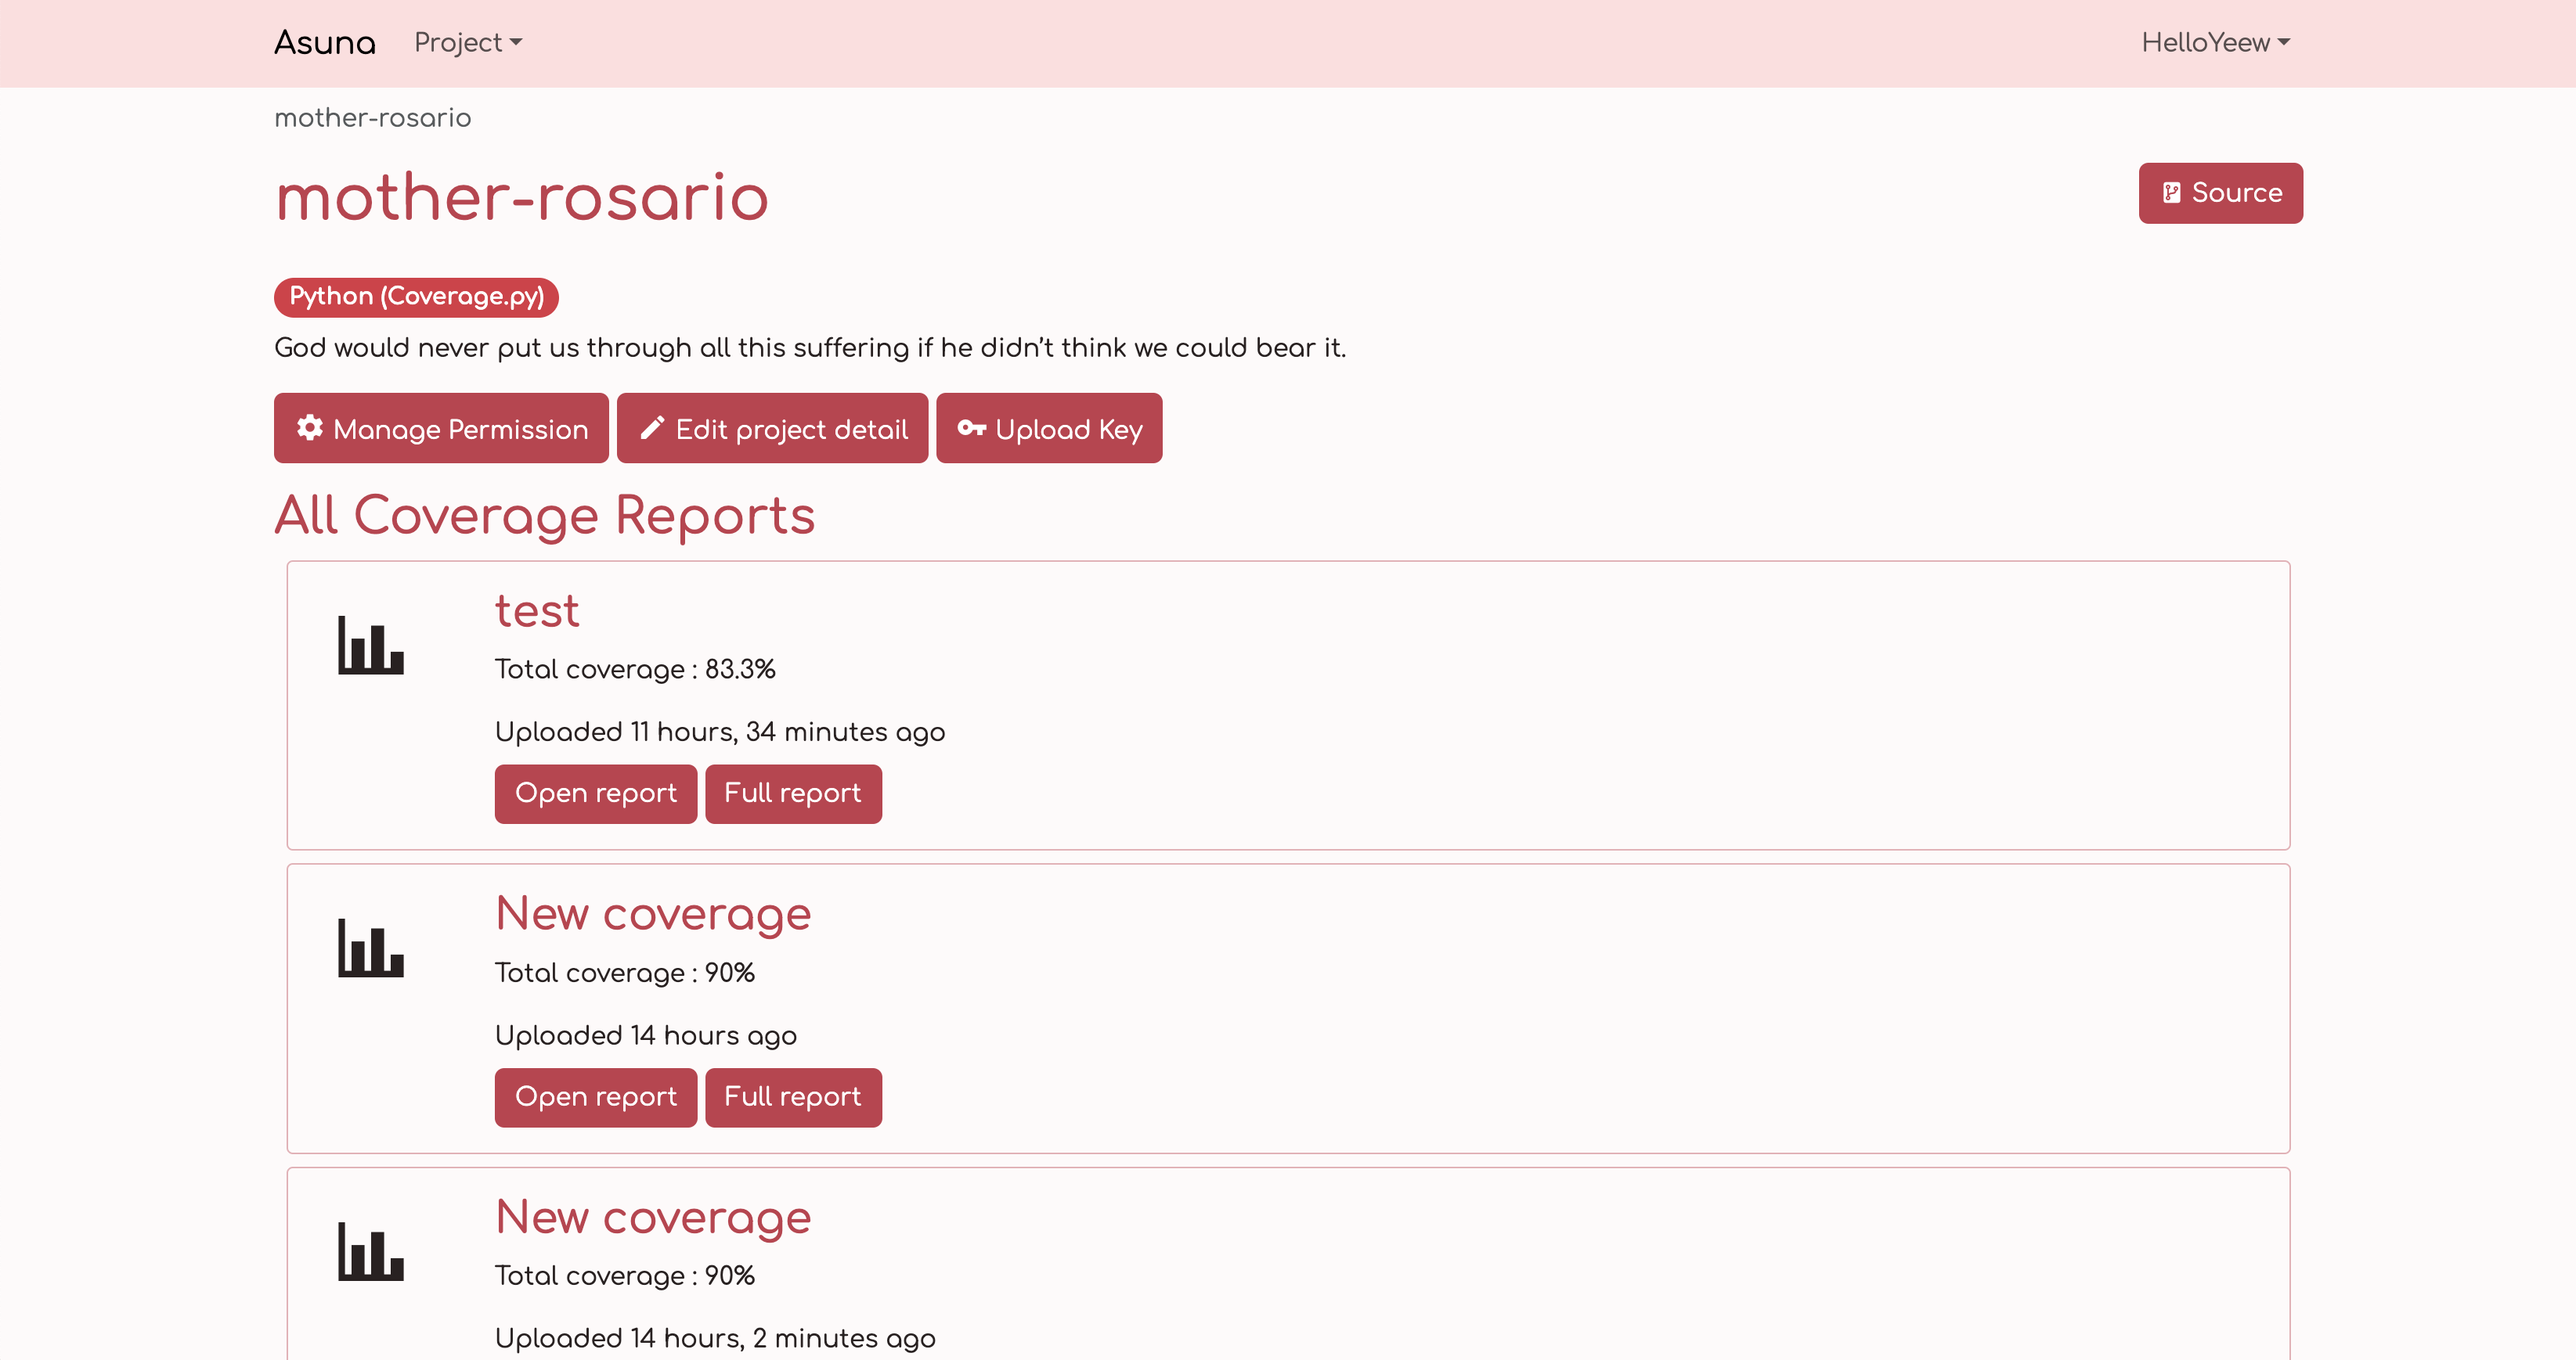
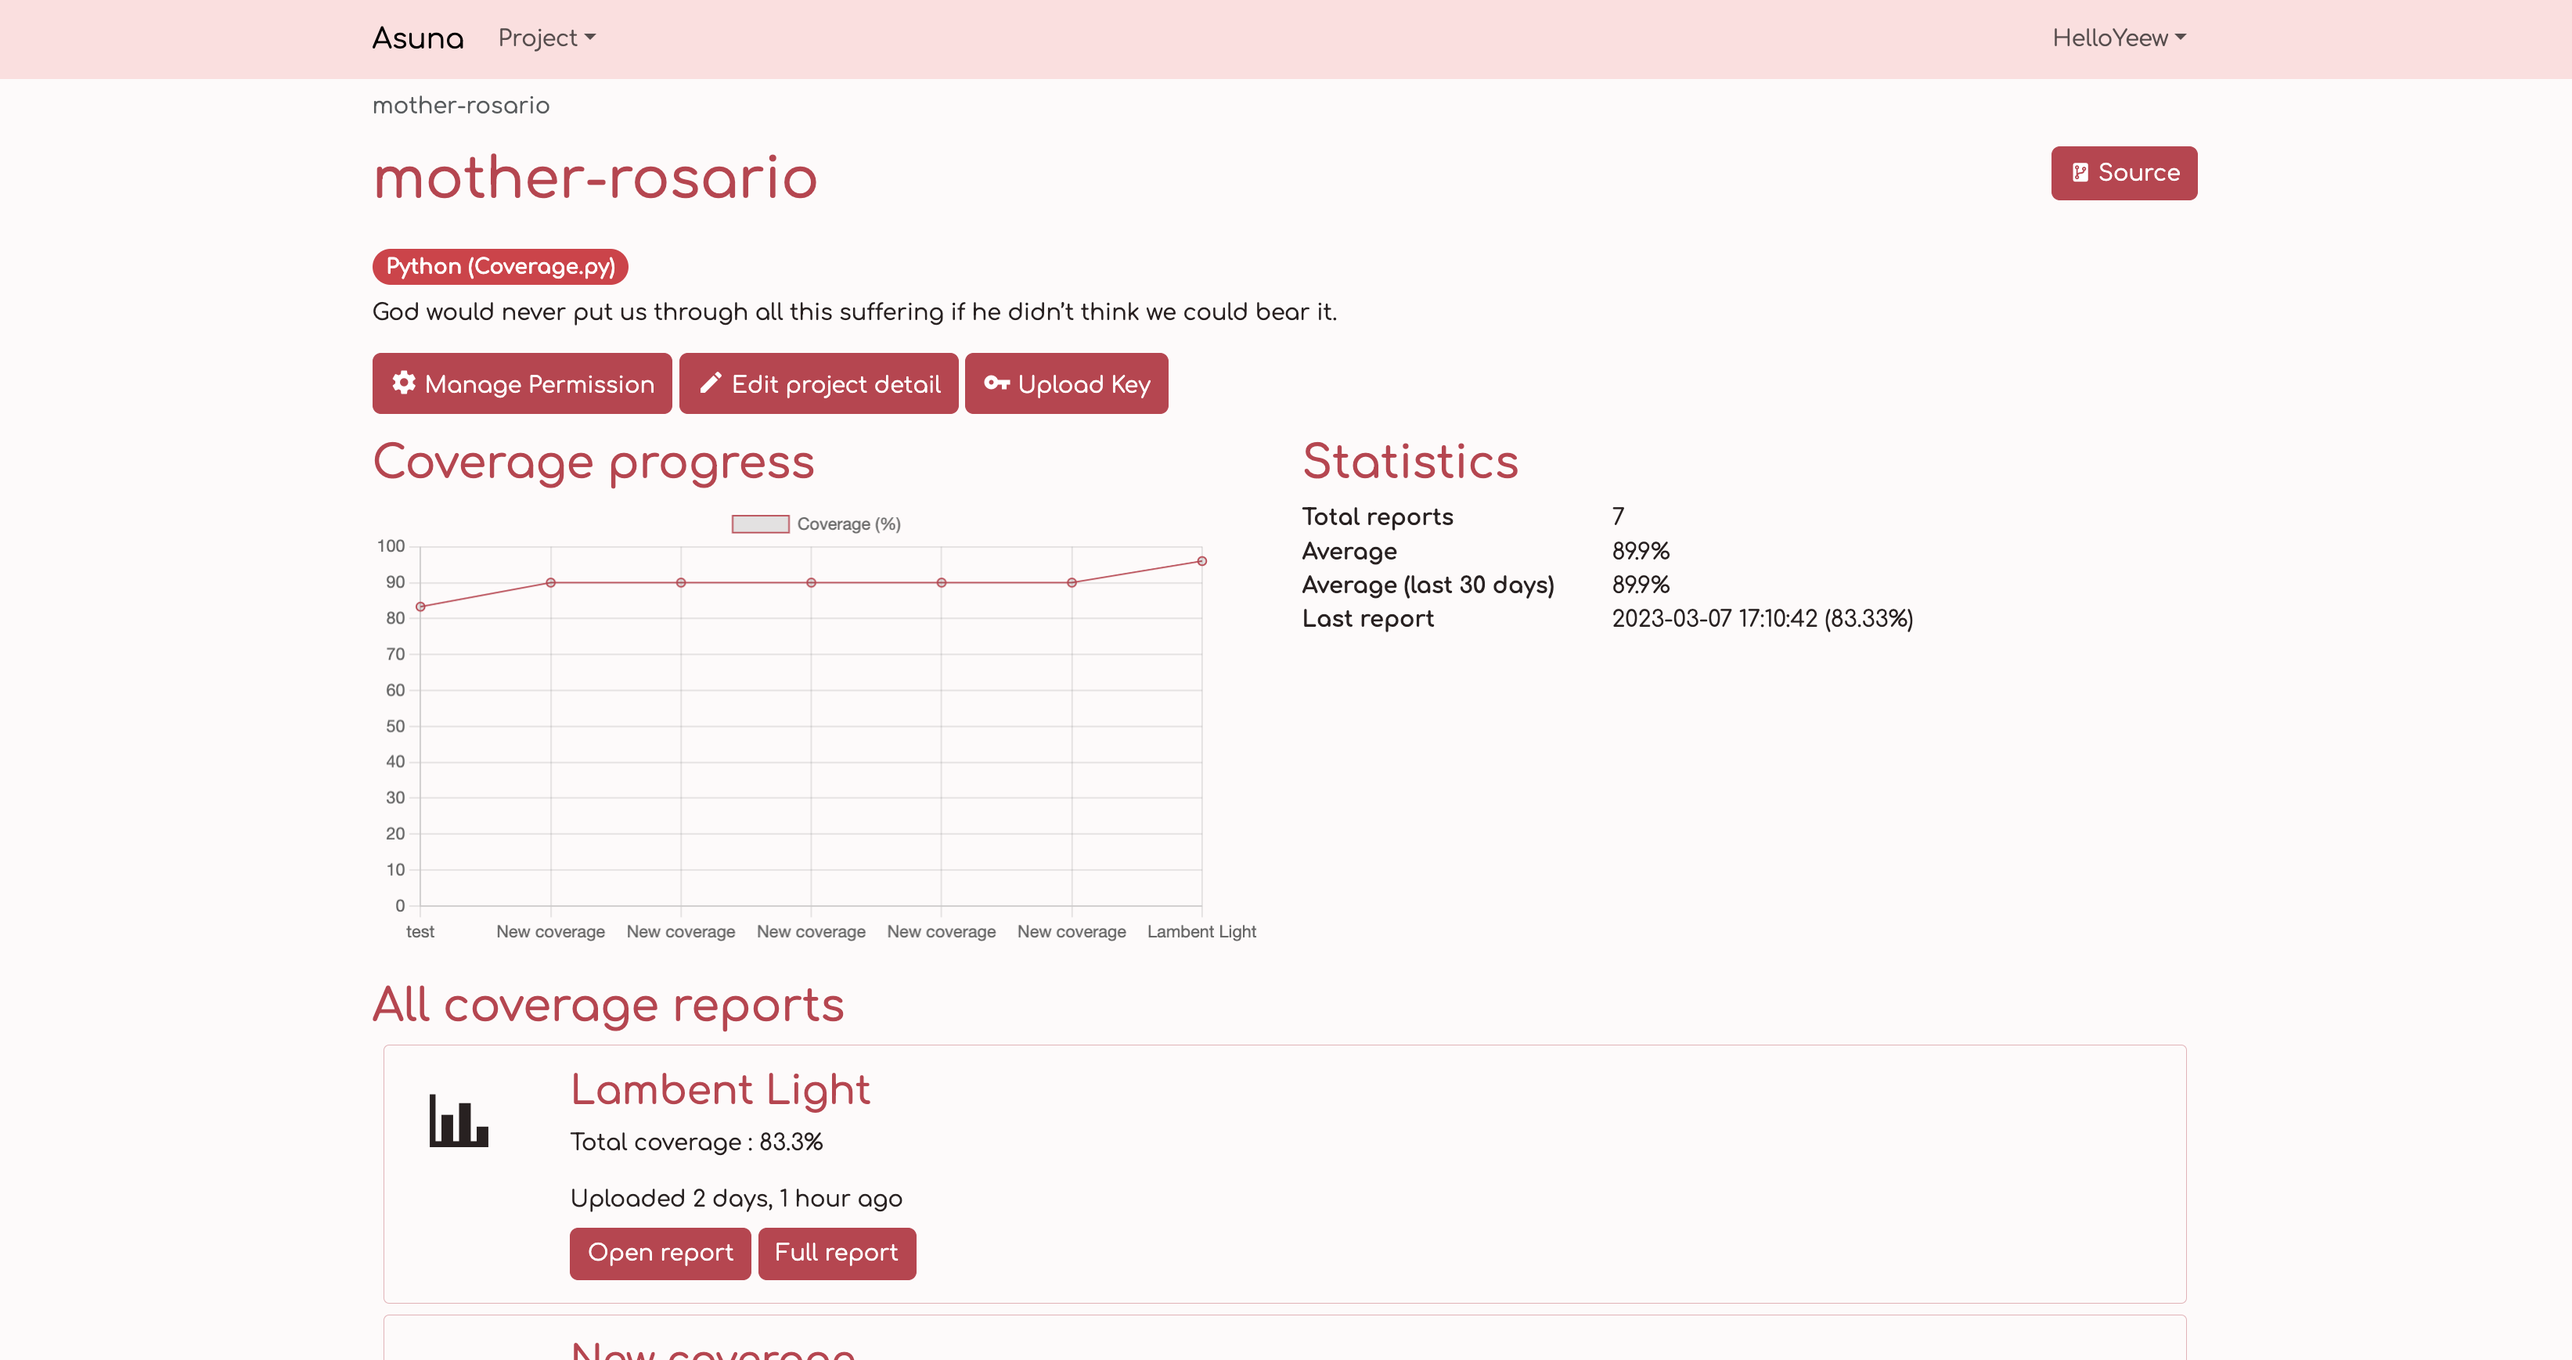
📈 Add chart on statistics

diff --git a/templates/apps/project/detail.html b/templates/apps/project/detail.html
@@ -1,4 +1,5 @@
 {% extends "base_apps.html" %}
+{% load convert_json %}
 
 {% block title %}{{ project.name }} Detail{% endblock %}
 
@@ -37,7 +38,31 @@
     {% endif %}
     </div>
 
-    <h2>All Coverage Report{% if all_coverage|length > 1 %}s{% endif %}</h2>
+    <div class="row">
+        <div class="col-md-6">
+            <h2>Coverage progress</h2>
+            <div>
+                <canvas id="coverageChart"></canvas>
+            </div>
+        </div>
+        <div class="col-md-6">
+            <h2>Statistics</h2>
+            {% with report_list=statistics|convert_json %}
+            {% for report in report_list %}
+            <div class="row">
+                <div class="col-4">
+                    <b>{{ report.key }}</b>
+                </div>
+                <div class="col-8">
+                    {{ report.value }}
+                </div>
+            </div>
+            {% endfor %}
+            {% endwith %}
+        </div>
+    </div>
+
+    <h2 style="padding-top: 24px;">All coverage report{% if all_coverage|length > 1 %}s{% endif %}</h2>
     {% if all_coverage %}
     {% for coverage in all_coverage %}
         <div class="row m-2 project-row">
@@ -60,8 +85,43 @@
     {% else %}
         <p>No report available</p>
     {% endif %}
+
+    <script src="https://cdn.jsdelivr.net/npm/chart.js"></script>
 {% endblock %}
 
 {% block scripts %}
+    <script>
+        const ctx = document.getElementById('coverageChart')
 
+        new Chart(ctx, {
+            type: 'line',
+            data: {
+                labels: [
+                    {% for coverage in all_coverage|slice:":10" reversed %}
+                    '{{ coverage.name }}',
+                    {% endfor %}
+                ],
+                datasets: [{
+                    label: 'Coverage (%)',
+                    data: [
+                        {% for coverage in all_coverage %}
+                        '{{ coverage.coverage|floatformat }}',
+                        {% endfor %}
+                    ],
+                    fill: false,
+                    borderColor: '#c43b4d',
+                    borderWidth: 1
+                }]
+            },
+            options: {
+                // Always max at 100
+                scales: {
+                    y: {
+                        max: 100,
+                        min: 0
+                    }
+                }
+            }
+        });
+    </script>
 {% endblock %}

diff --git a/templates/base_apps.html b/templates/base_apps.html
@@ -87,9 +87,8 @@
 
     <script src="https://cdn.jsdelivr.net/npm/bootstrap@5.3.0-alpha1/dist/js/bootstrap.bundle.min.js" integrity="sha384-w76AqPfDkMBDXo30jS1Sgez6pr3x5MlQ1ZAGC+nuZB+EYdgRZgiwxhTBTkF7CXvN" crossorigin="anonymous"></script>
 </body>
+{% block scripts %}{% endblock %}
 <script>
-    {% block scripts %}{% endblock %}
-
     {% if messages %}
         new bootstrap.Toast(document.getElementById('messages')).show();
     {% endif %}

diff --git a/apps/views.py b/apps/views.py
@@ -4,6 +4,7 @@ from django.conf import settings
 from django.contrib import messages
 from django.contrib.auth.decorators import login_required
 from django.contrib.auth.models import User
+from django.db.models import Avg
 from django.shortcuts import render, redirect
 from django.utils import timezone
 
@@ -80,11 +81,20 @@ def project_detail(request, project_id):
 
     # Get all coverage
     all_coverage = CoverageSummary.objects.filter(project_id=project_id).order_by('-date')
+
+    # Create statistics
+    statistics = {
+        'Total reports': len(all_coverage),
+        'Average': f"{round(CoverageSummary.objects.filter(project_id=project_id).aggregate(Avg('coverage'))['coverage__avg'], 2)}%" if len(all_coverage) > 0 else 'Not enough data',
+        'Average (last 30 days)': f"{round(CoverageSummary.objects.filter(project_id=project_id, date__gte=timezone.now() - timezone.timedelta(days=30)).aggregate(Avg('coverage'))['coverage__avg'], 2)}%" if len(all_coverage) > 0 else 'Not enough data',
+        'Last report': f"{all_coverage[0].date.strftime('%Y-%m-%d %H:%M:%S')} ({round(all_coverage[0].coverage, 2)}%)" if len(all_coverage) > 0 else 'No reports'
+    }
     return render(request, 'apps/project/detail.html', {
         'project': project,
         'project_access': project_access,
         'not_setup_key': not_setup_key,
-        'all_coverage': all_coverage
+        'all_coverage': all_coverage,
+        'statistics': statistics
     })
 
 
